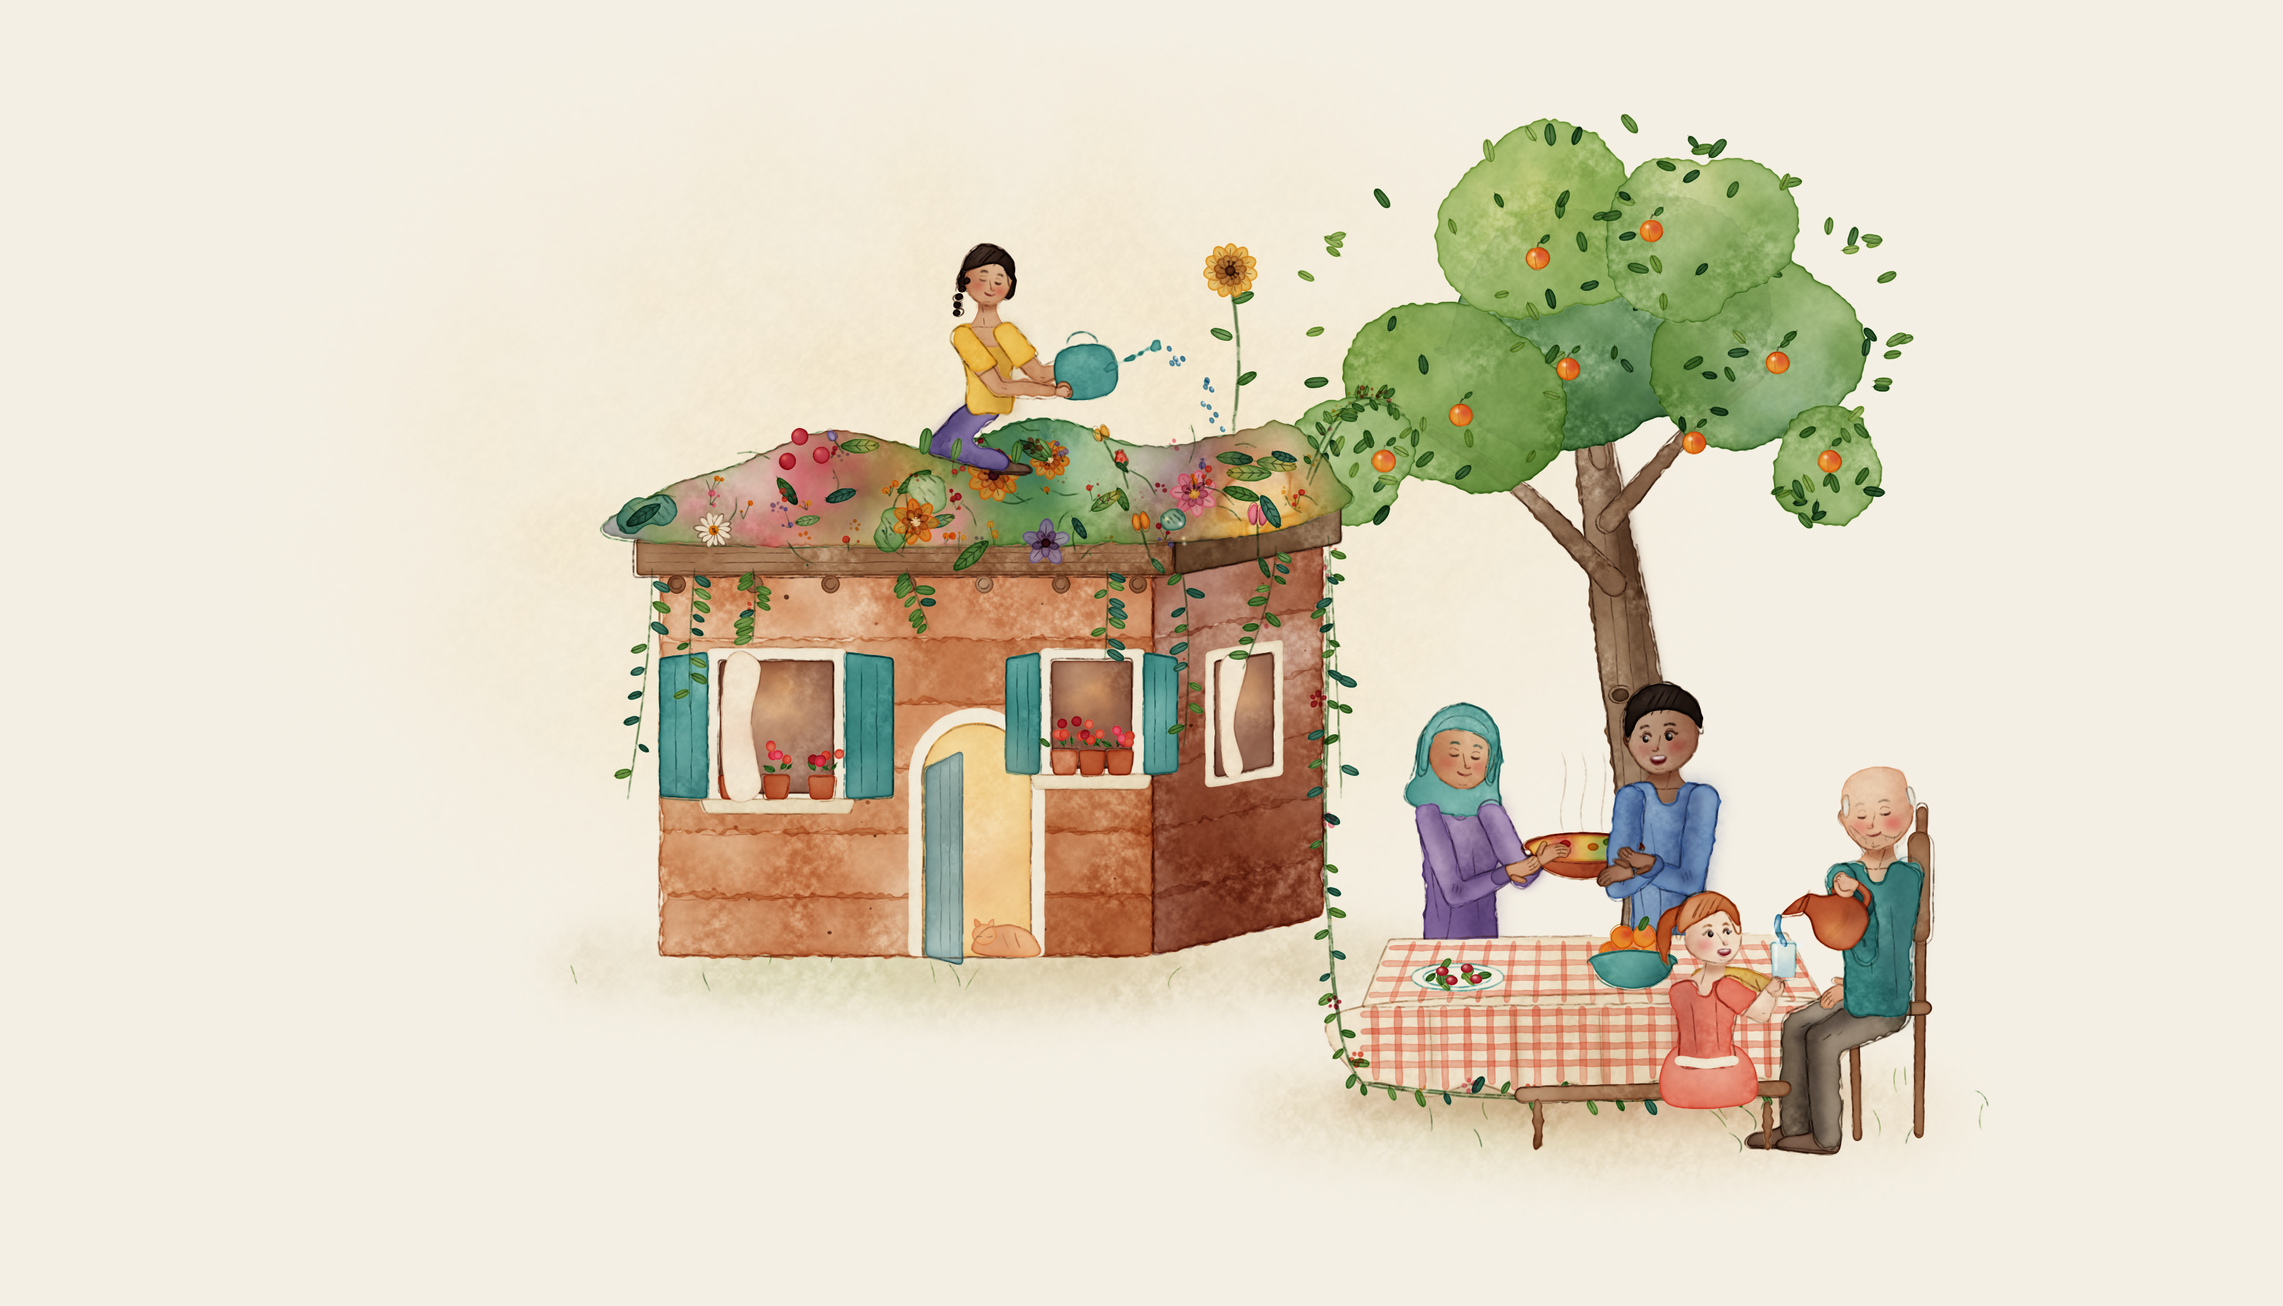
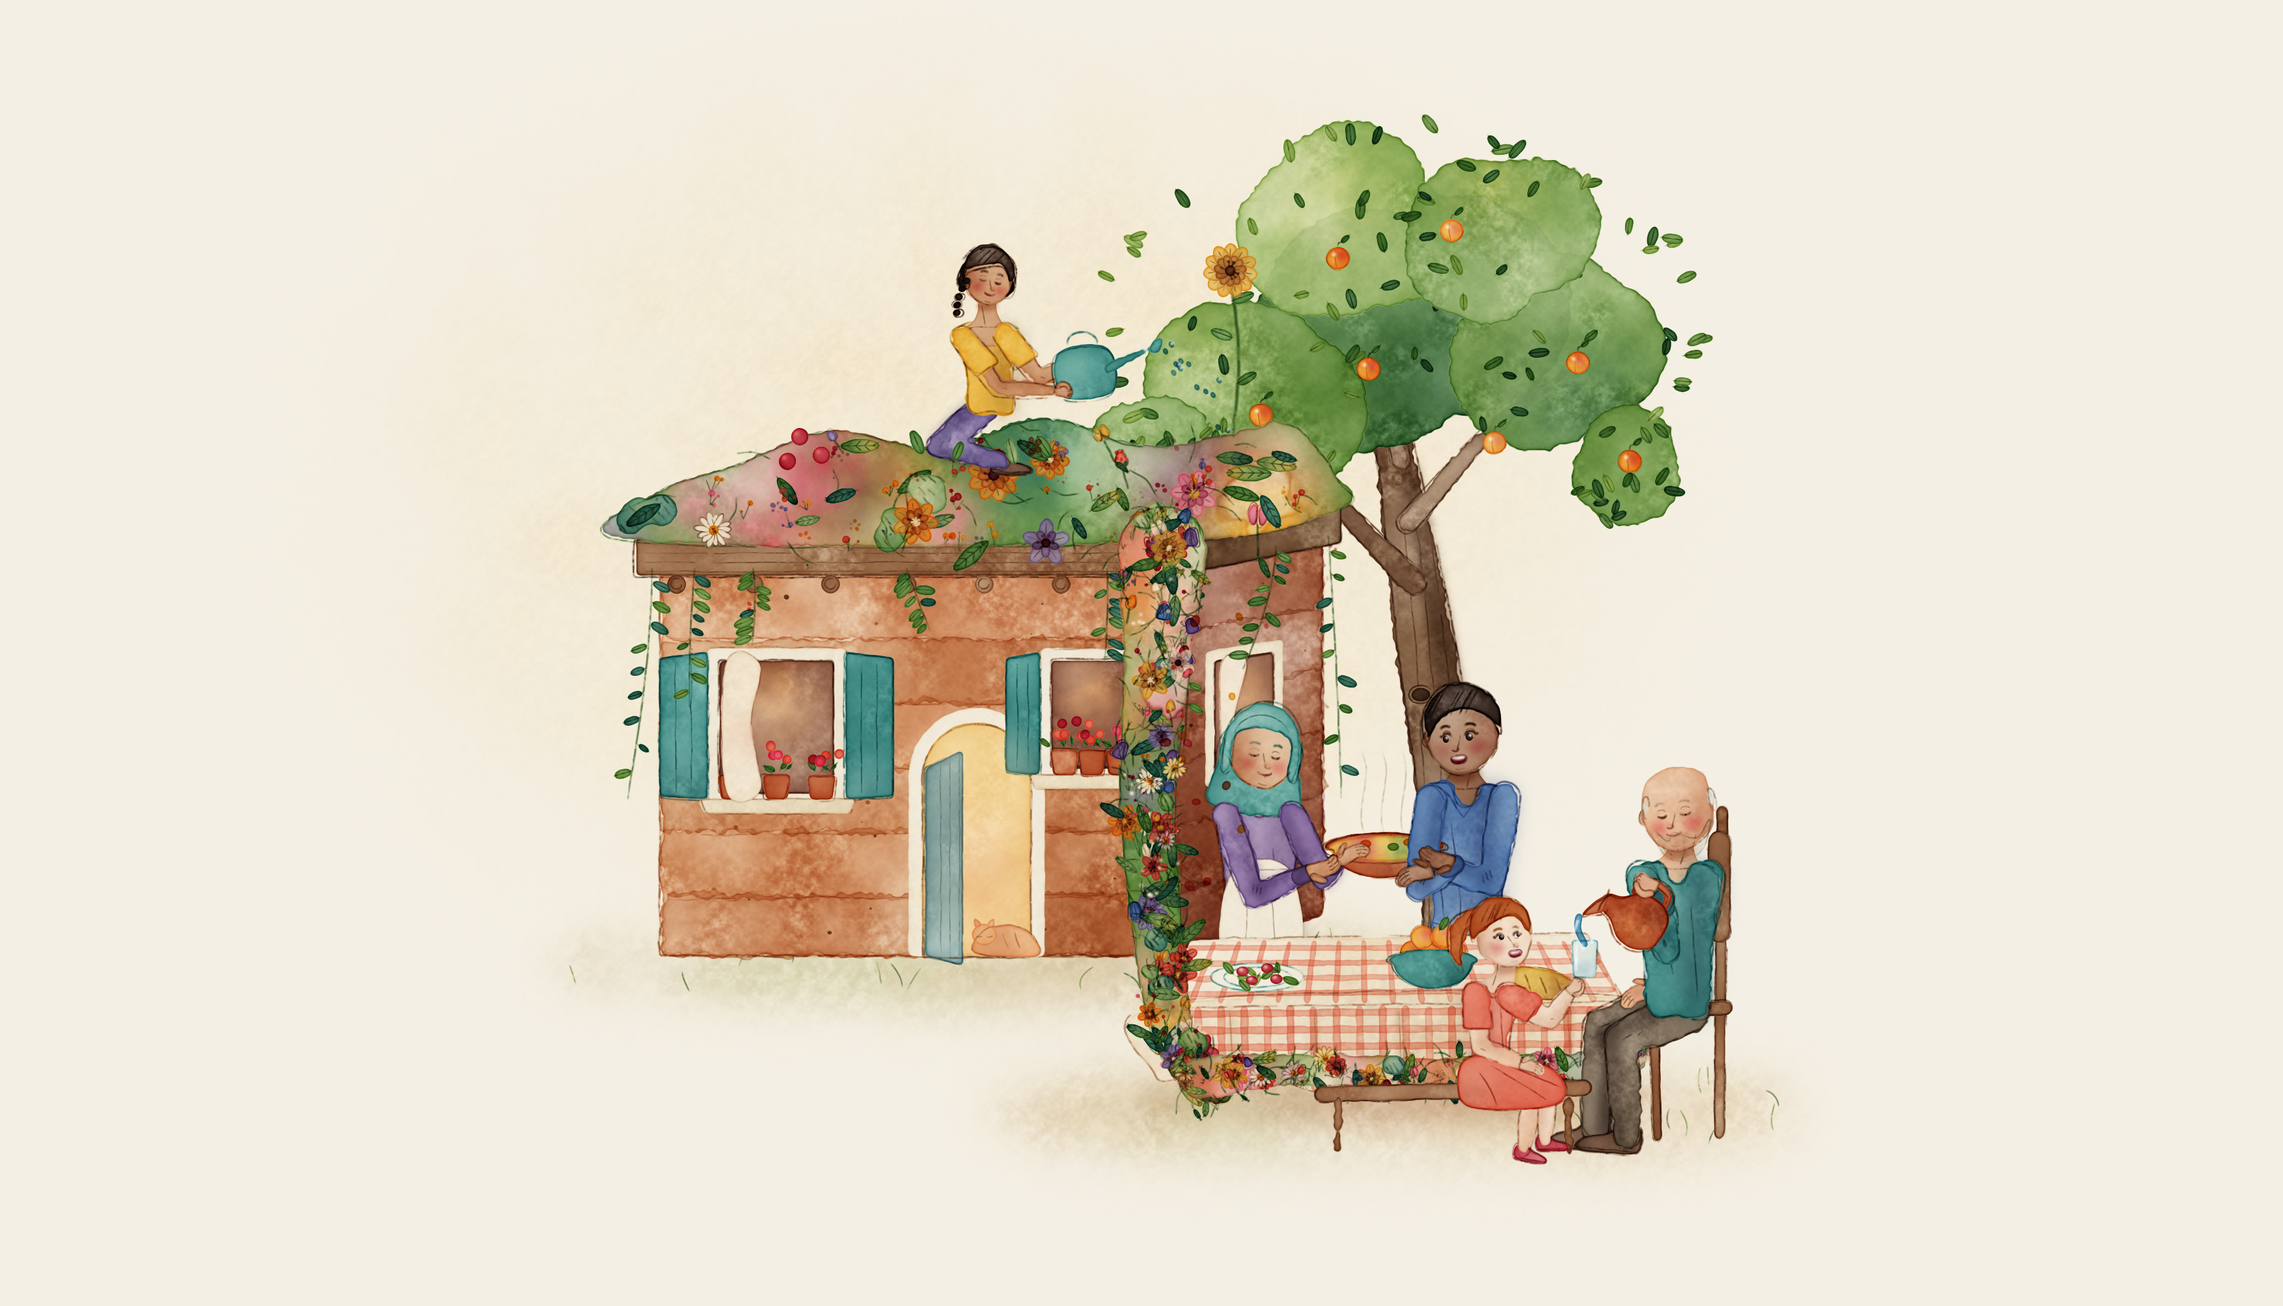
Calendario Arte: Design 4 round 4 for July and August
Claude-Session: https://claude.ai/code/session_01WLMKSDKQCN5ewxoWJ2uMJK

Changed region(s): [[0.4039, 0.0926, 0.87, 0.8954], [0.4039, 0.1853, 0.4661, 0.247]]

diff --git a/design/calendario-arte/generadores/diseno4/mes-07-d.py b/design/calendario-arte/generadores/diseno4/mes-07-d.py
@@ -21,7 +21,7 @@ sys.path.insert(0, os.path.dirname(os.path.abspath(__file__)))
 from acuarela import (Lienzo, Poligono, Elipse, Trazo, Circulos, spline, bezier, arco, mezcla, rgb, _lapiz_de,
                       jardin, hoja, hojita, flor_simple, flor_grande, mata, ramita, pajaro, estrella, motas,
                       remuestrea, puntos_dentro)
-from extra_m678 import (cabeza2, mano2, brazo2, pierna2, torso2, cuello, sombra_lado, piel_lapiz, pie, manga_poly)
+from extra_m678 import (Desplazado, cabeza2, mano2, brazo2, pierna2, torso2, cuello, sombra_lado, piel_lapiz, pie, manga_poly)
 
 ANCHO = int(sys.argv[1]) if len(sys.argv) > 1 else 1485
 SALIDA = sys.argv[2] if len(sys.argv) > 2 else 'mes-07-d.png'
@@ -45,15 +45,18 @@ lz.aguada(Elipse(650, 330, 360, 240), '#f7d08a', dens=0.14, suave=70, gran=0.05)
 
 # ------------------------------------------------------------------ ground: soft patches only where things stand
 lz.aguada(Elipse(650, 628, 290, 22), '#c9b58a', dens=0.38, suave=16, gran=0.45, toques=[(530, 628, 100, '#b9c58a', 0.6)])
-lz.aguada(Elipse(1040, 724, 230, 30), '#d6b88a', dens=0.36, suave=18, gran=0.45, toques=[(940, 724, 80, '#b9c58a', 0.5)])
-lz.aguada(Elipse(1036, 716, 170, 13), '#b8866a', dens=0.3, suave=9, gran=0.3)     # one warm shadow under the table
+lz.aguada(Elipse(910, 724, 260, 30), '#d6b88a', dens=0.36, suave=18, gran=0.45, toques=[(810, 724, 80, '#b9c58a', 0.5)])
+lz.aguada(Elipse(906, 716, 170, 13), '#b8866a', dens=0.3, suave=9, gran=0.3)     # one warm shadow under the table
 for k in range(40):
-    x = rng.uniform(370, 1320)
+    x = rng.uniform(370, 1180)
     y = rng.uniform(616, 646) if x < 880 else rng.uniform(704, 752)
     lz.lapiz([bezier((x, y), (x + rng.normal(0, 3), y - 7), (x + rng.normal(0, 6), y - rng.uniform(10, 18)))],
              rng.choice(['#4f6f45', '#7f9f5a']), grosor=0.6, presion=0.5, temblor=0.2)
 
 # ------------------------------------------------------------------ the apricot tree (behind the table)
+LZ = lz
+DXM = -130          # the tree and the table are drawn moved toward the house: one shared home
+lz = Desplazado(LZ, DXM)
 tronco = Trazo([(1078, 640), (1080, 600), (1072, 520), (1058, 430), (1046, 350), (1036, 290)], (58, 46, 40, 38, 32, 24))
 lz.aguada(tronco, '#8a6a52', dens=0.8, tapa=1, borde=0.6, gran=0.6,
           toques=[(1090, 600, 40, '#5e4a3a', 0.6), (1060, 420, 30, '#a08060', 0.5), (1072, 680, 40, '#6e5440', 0.6)])
@@ -108,6 +111,7 @@ def albaricoque(x, y, r=7.5):
 for (x, y) in ((950, 270), (1020, 240), (1102, 288), (1156, 236), (1000, 168), (1074, 150), (900, 300), (1190, 300)):
     albaricoque(x, y)
 
+lz = LZ
 # ------------------------------------------------------------------ the earthen house
 FL, FR, TOP, BOT = 430, 750, 372, 622
 SR, STOP, SBOT = 860, 352, 596          # side wall recedes to the right
@@ -268,16 +272,6 @@ for (x0, L, dv, sd) in ((FL - 6, 150, -10, 1), (FL + 22, 90, 4, 2), (FL + 60, 50
                         (FR + 18, 120, 8, 5), (SR + 4, 170, 10, 6), (SR - 30, 80, 0, 7), (590, 40, 0, 8)):
     yy = TOP - 2 if x0 <= FR + 14 else STOP - 2 + (TOP - STOP) * (SR - x0) / (SR - FR)
     colgante(x0, yy, L, 700 + sd, dv)
-# a flowering vine climbs from the roof garden across into the apricot crown
-puente = bezier((SR - 10, STOP - 40), (872, 250), (890, 254), (912, 266), 60)
-lz.lapiz([puente, puente + np.array([2, 4])], '#4f6f45', grosor=1.0, presion=0.65, temblor=0.4)
-for j in range(3, len(puente) - 2, 4):
-    d_ = puente[j + 1] - puente[j - 1]
-    base = math.degrees(math.atan2(d_[1], d_[0]))
-    hojita(lz, puente[j][0], puente[j][1], rng.uniform(9, 13), base + rng.choice([-60, 60]), rng.choice(['#5f8f4a', '#7aa456']),
-           tapa=0.9)
-    if j % 8 == 3:
-        flor_simple(lz, puente[j][0], puente[j][1] - 4, 5.5, rng.choice([CORAL, '#f39ab0', ORO]), centro='#e7a33e')
 
 # ------------------------------------------------------------------ the young woman watering on the roof (sunset)
 P4 = 'piel3'
@@ -309,17 +303,23 @@ flor_simple(lz, 672, 290, 7, CORAL, centro=ORO)
 
 
 # ------------------------------------------------------------------ one shared home: the table under the crown that touches the roof
+lz = Desplazado(LZ, DXM)
 # --- behind the table: the grandmother passes the steaming dish to the young man, hand to hand
 PA, PH, PN, PG = 'piel3', 'piel5', 'piel1', 'piel2'
 cuello(lz, (950, 488), 25, (950, 522), PA, giro=0.45, inclina=8)
 torso2(lz, (924, 522), (974, 524), (928, 620), (972, 620), '#8d73b0', cintura=0.96, sombra=1,
        toques=[(966, 584, 30, '#6a5290', 0.6)],
        pliegues=[[(938, 546), (944, 586), (940, 616)], [(958, 552), (962, 600)], [(930, 560), (936, 600)]])
+lz.aguada(Poligono([(932, 566), (968, 566), (974, 622), (926, 622)]), '#f6efe0', dens=0.5, tapa=1, irreg=0.3)   # apron
+lz.contorno(Poligono([(932, 566), (968, 566), (974, 622), (926, 622)]), '#a08a7a', grosor=0.6, presion=0.45)
+lz.lapiz([[(942, 570), (940, 618)], [(956, 570), (960, 618)], [(926, 566), (974, 566)]], '#a08a7a', grosor=0.55, presion=0.4)
 cabeza2(lz, 950, 488, 25, PA, '#4f9c9a', 'panuelo', giro=0.45, inclina=8, ojos='abajo', boca='sonrisa')
 cuello(lz, (1082, 476), 27, (1082, 512), PH, giro=-0.45, inclina=-6)
 torso2(lz, (1056, 512), (1112, 514), (1064, 620), (1106, 620), '#5f86c0', cintura=0.97, sombra=1,
        toques=[(1104, 584, 36, '#3f5f9a', 0.6)],
        pliegues=[[(1074, 536), (1080, 586), (1078, 616)], [(1094, 540), (1098, 600)], [(1064, 556), (1070, 600)]])
+lz.lapiz([[(1070, 514), (1082, 532), (1094, 514)]], '#3f5f9a', grosor=0.8, presion=0.6)     # collar
+lz.lapiz([bezier((1060, 600), (1084, 606), (1108, 600))], '#3f5f9a', grosor=0.6, presion=0.45)
 cabeza2(lz, 1082, 476, 27, PH, '#1e1410', 'corto', giro=-0.45, inclina=-6, ojos='abiertos', boca='risa', mira=(-1, 1))
 # far arms first, then the dish, then the near arms and the hands round its rim
 brazo2(lz, (970, 530), (990, 572), (1000, 560), 17, '#8d73b0', PA, 'larga', sombra=1, mano=None)
@@ -384,20 +384,25 @@ pan = Elipse(1128, 640, 28, 10, 8)
 lz.aguada(pan, '#d9a441', dens=0.88, tapa=1, irreg=0.3, toques=[(1124, 634, 14, '#f2d36b', 0.6), (1144, 646, 10, '#a0662a', 0.6)])
 lz.lapiz([[(1112 + k * 10, 633 + k * 1.4), (1116 + k * 10, 644 + k * 1.4)] for k in range(4)], '#8a5a22', grosor=0.7, presion=0.55)
 lz.contorno(pan, '#8a5a22', grosor=0.6, presion=0.5)
-# --- the magic that makes it one home: the roof garden climbs down the wall, crosses the ground
-#     and flowers along the hem of the tablecloth
-ruta = np.vstack([bezier((SR + 2, STOP + 10), (SR + 6, 450), (SR - 4, 540), (SR + 4, SBOT), 40),
-                  bezier((SR + 4, SBOT), (SR + 6, 640), (870, 690), (886, 704), 30)[1:],
-                  bezier((886, 704), (980, 718), (1090, 718), (1188, 704), 50)[1:]])
-lz.lapiz([ruta, ruta + np.array([1.5, 2])], '#4f6f45', grosor=0.9, presion=0.65, temblor=0.4)
-for j in range(2, len(ruta) - 1, 3):
-    d_ = ruta[j + 1] - ruta[j - 1]
-    base = math.degrees(math.atan2(d_[1], d_[0]))
-    hojita(lz, ruta[j][0], ruta[j][1], rng.uniform(10, 14), base + rng.choice([-62, 62]), rng.choice(['#5f8f4a', '#7aa456', '#3f7a6a']),
-           tapa=0.95)
-    if j % 4 == 2 or (j > 70 and j % 2 == 0):
-        flor_simple(lz, ruta[j][0] + rng.normal(0, 3), ruta[j][1] + rng.normal(0, 3), rng.uniform(5, 7),
-                    rng.choice([CORAL, '#f39ab0', CARMIN, '#fff1e0', ORO]), centro=ORO)
+# --- the magic that makes it one home: the roof garden pours down the corner of the house as a
+#     cascade of flowers, runs across the ground and becomes the flowered border of the tablecloth.
+#     (drawn on the real canvas, real coordinates)
+CASCADA = Trazo([(FR + 6, TOP - 14), (FR + 2, TOP + 60), (FR - 4, TOP + 150), (FR + 2, TOP + 230), (FR + 10, BOT + 40),
+                 (FR + 24, BOT + 72), (FR + 40, BOT + 84)], (58, 44, 38, 34, 32, 28, 24))
+jardin(LZ, CASCADA, paleta=(CORAL, ORO, CARMIN, '#f39ab0', '#f2a03a', '#fff1e0', '#a99bcb'),
+       verdes=('#5f8f4a', '#86a86c', '#3f7a6a'), base='#6f9a4a', base_dens=0.85, escala=0.66, densidad=1.9, semilla=77)
+LZ.contorno(CASCADA, VERDE_O, grosor=0.6, presion=0.35, cortes=0.6)
+BORDE = Trazo([(FR + 30, BOT + 80), (790, 700), (840, 696), (900, 698), (960, 698), (1010, 696), (1056, 692), (1066, 688)],
+              (26, 22, 20, 20, 20, 20, 20, 14))
+jardin(LZ, BORDE, paleta=(CORAL, ORO, CARMIN, '#f39ab0', '#fff1e0'), verdes=('#5f8f4a', '#86a86c', '#3f7a6a'),
+       base='#6f9a4a', base_dens=0.8, escala=0.52, densidad=2.0, semilla=78)
+# petals carried down the cascade
+for k in range(14):
+    t = rng.uniform(0, 1)
+    x = FR + 40 + rng.normal(0, 18)
+    y = TOP + t * 240
+    LZ.aguada(Elipse(x, y, rng.uniform(3, 4.5), rng.uniform(2, 3), rng.uniform(0, 180)), rng.choice([CORAL, '#f39ab0', ORO]),
+              dens=0.8, irreg=0.3, borde=0.7)
 
 # --- the grandfather, at the end of the table, pours water for the girl
 silla = [Trazo([(1250, 528), (1248, 738)], (7, 6)), Trazo([(1206, 670), (1208, 740)], (6, 5)),
@@ -437,16 +442,25 @@ lz.aguada(banco, '#9a6a4a', dens=0.8, tapa=1, irreg=0.3)
 lz.contorno(banco, '#4a3428', grosor=0.6, presion=0.5)
 for x in (1000, 1150):
     lz.aguada(Trazo([(x, 716), (x, 748)], (6, 5)), '#8a5a3a', dens=0.8, tapa=1)
-cuello(lz, (1112, 606), 22, (1108, 640), PN, giro=0.8, inclina=-6, escote=False)
-falda_n = Poligono([(1088, 682), (1132, 682), (1140, 716), (1084, 718)])
-lz.aguada(falda_n, CORAL, dens=0.8, tapa=1, irreg=0.3, borde=0.7)
-torso2(lz, (1088, 640), (1128, 640), (1092, 692), (1126, 692), CORAL, cintura=0.94, sombra=-1, escote='redondo',
-       pliegues=[[(1100, 652), (1104, 686)], [(1116, 650), (1118, 684)]])
-lz.aguada(Trazo([(1092, 690), (1110, 692), (1128, 690)], (6, 6, 6)), '#f6efe0', dens=0.6, tapa=1, irreg=0.3)   # her apron bow
-cabeza2(lz, 1112, 606, 22, PN, '#c0602e', 'coleta', giro=0.82, inclina=-6, ojos='abiertos', boca='risa', mira=(1, -1))
+# legs: thighs along the bench toward him, shins hanging, little red shoes
+pierna2(lz, (1100, 702), (1136, 704), (1134, 742), 17, None, PN, pie_ang=0, zapato=CARMIN, sombra=1, pie_tam=20)
+pierna2(lz, (1094, 706), (1126, 712), (1120, 748), 17, None, PN, pie_ang=10, zapato=CARMIN, sombra=-1, pie_tam=20)
+cuello(lz, (1106, 608), 21, (1102, 642), PN, giro=0.8, inclina=-8, escote=False)
+torso2(lz, (1086, 642), (1116, 644), (1088, 698), (1110, 698), CORAL, cintura=0.9, sombra=-1, escote='redondo',
+       pliegues=[[(1094, 656), (1096, 690)], [(1106, 654), (1108, 690)]])
+# the skirt drapes over her lap to the knees, with pencil folds
+falda_n = Poligono([(1082, 690), (1112, 688), (1140, 696), (1148, 712), (1136, 720), (1100, 722), (1080, 716)])
+lz.aguada(falda_n, CORAL, dens=0.8, tapa=1, irreg=0.3, borde=0.7, toques=[(1090, 712, 12, '#c0503a', 0.6)])
+lz.contorno(falda_n, '#9a3a2e', grosor=0.7, presion=0.5, cortes=0.2)
+lz.lapiz([bezier((1100, 694), (1118, 704), (1136, 716)), bezier((1092, 698), (1100, 708), (1104, 720)),
+          bezier((1112, 694), (1128, 700), (1146, 708))], '#9a3a2e', grosor=0.6, presion=0.45, temblor=0.3)
+# the back arm rests on her knee
+brazo2(lz, (1090, 650), (1092, 682), (1118, 692), 13, CORAL, PN, 'corta', sombra=-1,
+       mano=dict(ang=10, gesto='relajada', lado=-1, tam=19))
+cabeza2(lz, 1106, 608, 21, PN, '#c0602e', 'coleta', giro=0.8, inclina=-8, ojos='abiertos', boca='risa', mira=(1, -1))
 # her arm and the glass, held up under the jug's spout
 VASO = (1160, 634)
-brazo2(lz, (1126, 646), (1146, 660), (1152, 644), 14, CORAL, PN, 'corta', sombra=1, mano=None)
+brazo2(lz, (1114, 650), (1138, 664), (1150, 646), 14, CORAL, PN, 'corta', sombra=1, mano=None)
 vaso = Poligono([(VASO[0] - 8, VASO[1] - 22), (VASO[0] + 8, VASO[1] - 22), (VASO[0] + 7, VASO[1] + 2), (VASO[0] - 7, VASO[1] + 2)],
                 suave=False)
 lz.aguada(vaso, '#cfe8ec', dens=0.45, tapa=1, irreg=0.2, toques=[(VASO[0], VASO[1] - 4, 7, '#7fb5d3', 0.8)])
@@ -460,6 +474,7 @@ lz.gouache(Trazo([(sx_ - 1, sy_ + 3), (sx_ - 4, sy_ + 12)], (1.1, 0.8)), '#fffff
 for k in range(5):
     lz.gouache(Elipse(VASO[0] + rng.normal(0, 4), VASO[1] - 21 + rng.normal(0, 2), 0.9), '#e8f6ff', alfa=0.9, irreg=0)
 
+lz = LZ
 lz.vineta(margen=26)
 lz.guardar(SALIDA)
 print('ok', SALIDA)

diff --git a/design/calendario-arte/generadores/diseno4/extra_m678.py b/design/calendario-arte/generadores/diseno4/extra_m678.py
@@ -613,3 +613,95 @@ def cabeza2(lz, x, y, r, piel='piel2', pelo='#5a3a2a', peinado='corto', giro=0.0
     lz.contorno(face, lp, grosor=0.75, presion=0.45, cortes=0.4, desfase=0.3,
                 solo=(x - r * 2, y + r * 0.1, x + r * 2, y + r * 2))
     return R(fx, ey)
+
+
+# ---------------------------------------------------------------- moving a whole group
+
+class _FormaDesplazada:
+    """A shape moved by (dx, dy) base units (wraps any acuarela Forma)."""
+
+    def __init__(self, forma, dx, dy):
+        self.f, self.dx, self.dy = forma, dx, dy
+
+    def bbox(self):
+        b = self.f.bbox()
+        return b[0] + self.dx, b[1] + self.dy, b[2] + self.dx, b[3] + self.dy
+
+    def mascara(self, lz, x0, y0, x1, y1):
+        ox, oy = int(round(self.dx * lz.s)), int(round(self.dy * lz.s))
+        return self.f.mascara(lz, x0 - ox, y0 - oy, x1 - ox, y1 - oy)
+
+    def __or__(self, o):
+        from acuarela import _Op
+        return _Op(self, o, 'u')
+
+    def __sub__(self, o):
+        from acuarela import _Op
+        return _Op(self, o, 'r')
+
+    def __and__(self, o):
+        from acuarela import _Op
+        return _Op(self, o, 'i')
+
+
+class Desplazado:
+    """A view of a Lienzo that paints everything moved by (dx, dy) base units,
+    so a whole group (a table with its people, a tree) can be recomposed
+    without rewriting its coordinates. Pass it wherever `lz` is expected."""
+
+    def __init__(self, lz, dx=0.0, dy=0.0):
+        self._lz, self._dx, self._dy = lz, dx, dy
+
+    def __getattr__(self, k):
+        return getattr(self._lz, k)
+
+    def _f(self, forma):
+        return _FormaDesplazada(forma, self._dx, self._dy)
+
+    def _p(self, x, y):
+        return x + self._dx, y + self._dy
+
+    def aguada(self, forma, color, *a, **kw):
+        if kw.get('toques'):
+            kw['toques'] = [(t[0] + self._dx, t[1] + self._dy) + tuple(t[2:]) for t in kw['toques']]
+        if kw.get('desvanece') is not None:
+            x0, y0, x1, y1 = kw['desvanece']
+            kw['desvanece'] = (x0 + self._dx, y0 + self._dy, x1 + self._dx, y1 + self._dy)
+        return self._lz.aguada(self._f(forma), color, *a, **kw)
+
+    def lapiz(self, trazos, *a, **kw):
+        d = np.array([self._dx, self._dy])
+        return self._lz.lapiz([np.asarray(t, np.float64) + d for t in trazos], *a, **kw)
+
+    def contorno(self, forma, *a, **kw):
+        if kw.get('solo') is not None:
+            x0, y0, x1, y1 = kw['solo']
+            kw['solo'] = (x0 + self._dx, y0 + self._dy, x1 + self._dx, y1 + self._dy)
+        return self._lz.contorno(self._f(forma), *a, **kw)
+
+    def rayado(self, forma, *a, **kw):
+        if kw.get('desvanece') is not None:
+            x0, y0, x1, y1 = kw['desvanece']
+            kw['desvanece'] = (x0 + self._dx, y0 + self._dy, x1 + self._dx, y1 + self._dy)
+        return self._lz.rayado(self._f(forma), *a, **kw)
+
+    def luz(self, forma_o_xyr, *a, **kw):
+        if isinstance(forma_o_xyr, tuple):
+            x, y, r = forma_o_xyr
+            return self._lz.luz((*self._p(x, y), r), *a, **kw)
+        return self._lz.luz(self._f(forma_o_xyr), *a, **kw)
+
+    def gouache(self, forma, *a, **kw):
+        return self._lz.gouache(self._f(forma), *a, **kw)
+
+    def levanta(self, forma, *a, **kw):
+        return self._lz.levanta(self._f(forma), *a, **kw)
+
+    def collage(self, forma, *a, **kw):
+        return self._lz.collage(self._f(forma), *a, **kw)
+
+    def brillo(self, cx, cy, *a, **kw):
+        return self._lz.brillo(*self._p(cx, cy), *a, **kw)
+
+    def chispas(self, cx, cy, *a, **kw):
+        return self._lz.chispas(*self._p(cx, cy), *a, **kw)
